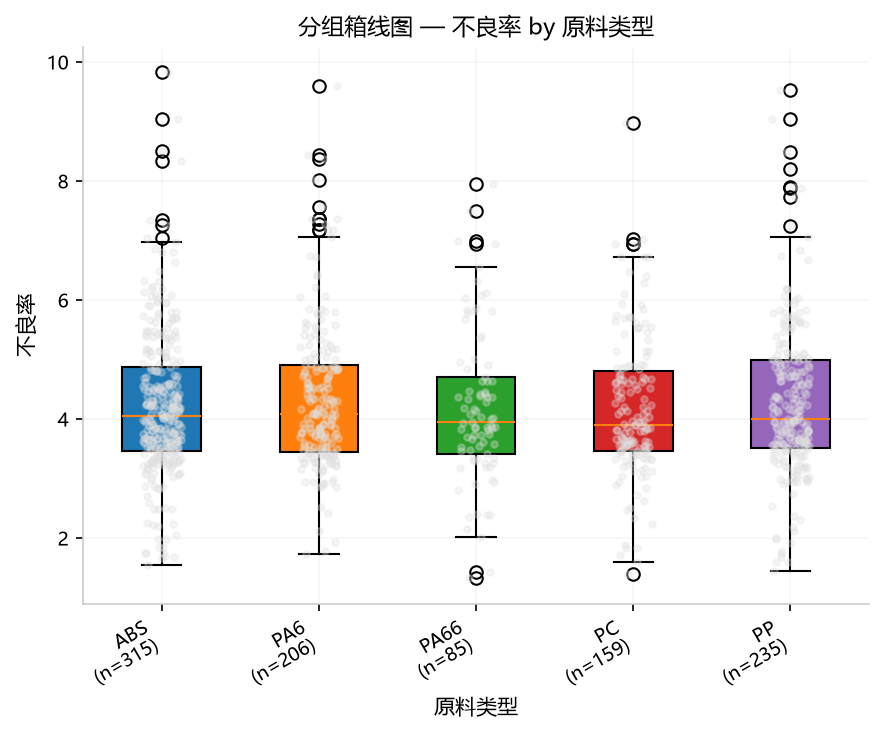
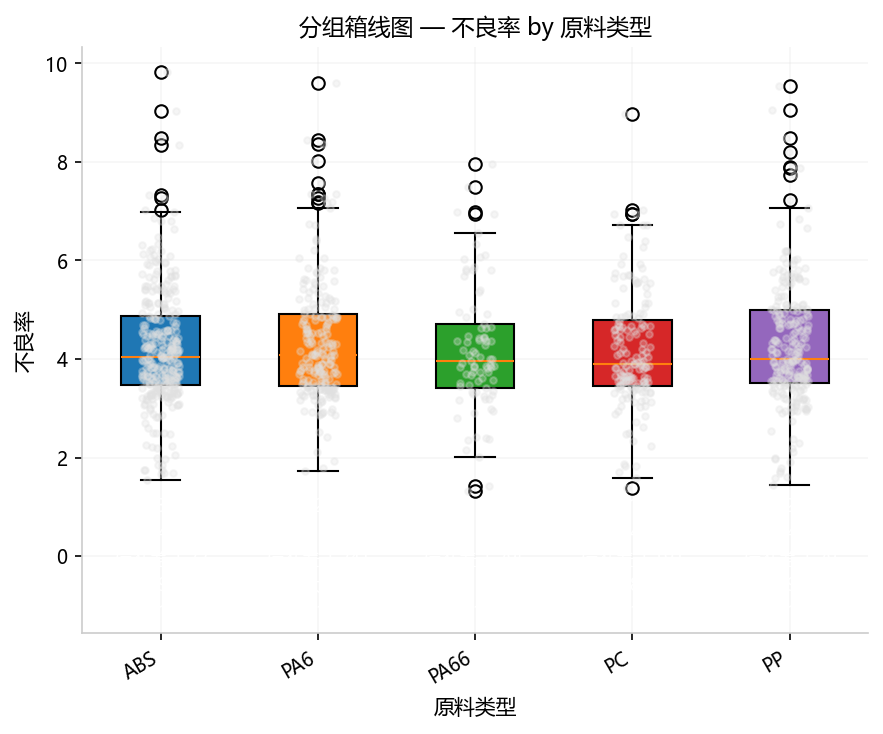
feat(engine): 箱线图每个箱体下方标注 n/均值/标准差/最大/最小值
- box_chart 新增 show_stats 参数（默认 true）：非分面单图模式下在每个箱体正下方
  标注该组 n/均值/标准差/最大值/最小值，与箱体共用同一套 x 位置（get_xaxis_transform）
- 图形整体尺寸不变：y 轴下界下压约数据跨度的 1/3，箱体被压缩到坐标区上部
- 开启时 X 轴刻度标签只留类别名（n 移入标注块，去重）；关闭则回到 类别\n(n=…) 旧样式；
  分面模式不加标注（面板面积不足）
- 标注数值走与 group_statistics 表同口径的格式化，规避展示层二次舍入：
  1e6 量级不被 :g 裁成 6 位有效数字，微尺度不归零（陷阱 9）
- 注册链同步：task_spec 默认参数 / app.js TASK_PARAMS+PARAM_META+PARAM_LABELS /
  example_box_chart.yaml / api-reference / 手册 07-spc（含示例图重生成）
- 测试：test_correctness 钉住标注与统计表逐项一致、x 位置对齐、开关与分面行为、
  远离数据的 USL 下标注仍落在数据下方；micro_scale 守卫钉住微尺度不归零

diff --git a/src/smartsuite/web/static/app.js b/src/smartsuite/web/static/app.js
@@ -213,7 +213,7 @@ const TASK_PARAMS = {
   doe_analysis:      { alpha: 0.05 },
   doe_design:        { method: 'full_factorial', factors: '', replicates: 1, randomize: 'true', seed: 42, center_points: 3, alpha: 'rotatable', n_runs: '' },
   variance_test:     { group_col: '', alpha: 0.05 },
-  box_chart:         { mode: 'facet', group_col: '', usl: '', lsl: '', ucl: '', lcl: '', cl: '', target: '' },
+  box_chart:         { mode: 'facet', show_stats: 'true', group_col: '', usl: '', lsl: '', ucl: '', lcl: '', cl: '', target: '' },
   scatter_plot:      { fit: 'none', show_ci: 'true', group_col: '' },
   correlation:       { method: 'pearson', control_vars: '' },
   contingency:       { alpha: 0.05 },
@@ -347,6 +347,10 @@ const PARAM_META = {
     type: 'select', label: '置信带',
     options: [['true', '显示 95% 置信带'], ['false', '隐藏']]
   },
+  show_stats: {
+    type: 'select', label: '箱体统计标注',
+    options: [['true', '显示 n/均值/标准差/最大/最小'], ['false', '隐藏 (刻度标签显示 n)']]
+  },
   'method@doe_design': {
     type: 'select', label: '设计方法',
     options: [
@@ -408,7 +412,7 @@ const PARAM_LABELS = {
   target: '目标值', ucl: '控制上限 (UCL)', lcl: '控制下限 (LCL)', cl: '控制中心 (CL)',
   target_power: '目标功效', l1_ratio: 'L1 比率 (ElasticNet)',
   current_n: '当前样本量 n (achieved 模式)', n_groups: '组数 k (anova)', p0: '基准比例 (proportion)', p1: '目标比例 (proportion)',
-  fit: '拟合类型', show_ci: '显示置信带', threshold: '分类阈值',
+  fit: '拟合类型', show_ci: '显示置信带', show_stats: '箱体统计标注', threshold: '分类阈值',
   'threshold@vif': 'VIF 阈值',
   factors: '因子定义', replicates: '重复次数', randomize: '随机化',
   seed: '随机种子', center_points: '中心点重复数', n_runs: '运行数',

diff --git a/tests/engine/test_correctness.py b/tests/engine/test_correctness.py
@@ -1402,6 +1402,136 @@ def test_box_chart_group_statistics():
     assert result.metadata["n_groups"] == 2
 
 
+def test_box_chart_stats_annotations_under_each_box():
+    """分组箱线图: 每个类别正下方应标注 n/均值/标准差/最大值/最小值，
+    且箱体被压缩在图内（整体尺寸不变）。
+
+    断言口径来自 review 2026-09-21 之后的箱线图标注需求：
+      ① 刻度标签只留类别名（n 统一进标注块，不重复）
+      ② 每组 5 行标注文本，数值与 group_statistics 表逐项一致
+      ③ 标注文本 x 位置与箱体 x 位置一致（共用一套 key）
+      ④ y 轴下界被压低到数据最小值以下（为标注腾出空间，箱体自动压缩）
+    """
+    from smartsuite.engine.exploratory import box_chart
+
+    np.random.seed(7)
+    n = 40
+    df = pd.DataFrame(
+        {
+            "group": ["A"] * n + ["B"] * n,
+            "val": np.concatenate([np.random.normal(100, 10, n), np.random.normal(115, 8, n)]),
+        }
+    )
+    result = box_chart(
+        AnalysisRequest(task="box_chart", data=df, target_col="val", feature_cols=["group"])
+    )
+    assert result.status == "ok", f"box_chart 失败: {result.messages}"
+    fig = result.figures[0]
+    ax = fig.axes[0]
+    stats = result.tables["group_statistics"]
+
+    # ① 刻度标签不再重复 n
+    labels = [t.get_text() for t in ax.get_xticklabels()]
+    assert labels == ["A", "B"], f"刻度标签应为纯类别名，实际: {labels}"
+
+    # ② 每组 5 行标注，数值与统计表一致
+    texts = [t for t in ax.texts if t.get_text()]
+    for i, (_, row) in enumerate(stats.iterrows()):
+        block = [t.get_text() for t in texts if abs(t.get_position()[0] - (i + 1)) < 1e-6]
+        assert len(block) == 5, f"第 {i + 1} 组应有 5 行标注，实际: {block}"
+        keys = ["n=", "均值 ", "标准差 ", "最大 ", "最小 "]
+        cols = ["样本量", "均值", "标准差", "最大值", "最小值"]
+        for line, key, col in zip(block, keys, cols, strict=True):
+            assert line.startswith(key), f"第 {i + 1} 组标注顺序/标签错: {block}"
+            assert float(line[len(key) :]) == pytest.approx(float(row[col])), (
+                f"第 {i + 1} 组「{col}」={row[col]} 与标注「{line}」不一致"
+            )
+
+    # ③ 标注 x 位置与箱体 x 位置一致（共用一套 key）
+    box_x = [np.mean(p.get_path().vertices[:, 0]) for p in ax.patches]
+    for i, bx in enumerate(box_x):
+        assert any(abs(t.get_position()[0] - bx) < 0.3 for t in texts), (
+            f"第 {i + 1} 个箱体 (x={bx}) 下方无对齐标注"
+        )
+
+    # ④ y 轴下界低于数据最小值（标注带在同一坐标区内）
+    assert ax.get_ylim()[0] < df["val"].min(), "y 轴下界未下压，标注会压住箱体"
+
+
+def test_box_chart_stats_band_clear_of_boxes_even_with_far_ref_line():
+    """即使 USL 远离数据（1000 vs 1~8），标注仍必须全部落在数据下方的预留带内。
+
+    回归点：标注带宽度若改按「数据跨度」而非「数据 ∪ 参考线」，则参考线远离数据时
+    标注会浮到箱体中间（review 过程中的一次错误尝试）。
+    """
+    from smartsuite.engine.exploratory import box_chart
+
+    np.random.seed(9)
+    df = pd.DataFrame({"group": ["A"] * 20 + ["B"] * 20, "val": np.random.normal(5, 1, 40)})
+    result = box_chart(
+        AnalysisRequest(
+            task="box_chart",
+            data=df,
+            target_col="val",
+            feature_cols=["group"],
+            params={"usl": 1000},
+        )
+    )
+    assert result.status == "ok", f"box_chart 失败: {result.messages}"
+    ax = result.figures[0].axes[0]
+    data_bottom_disp = ax.transData.transform((0.0, float(df["val"].min())))[1]
+    for t in ax.texts:
+        assert t.get_text(), "空文本不应出现"
+        y_disp = ax.transAxes.transform((0.0, t.get_position()[1]))[1]
+        assert y_disp < data_bottom_disp, f"标注「{t.get_text()}」压住箱体区"
+
+
+def test_box_chart_stats_annotation_toggle_and_facet():
+    """show_stats=False 关闭标注；分面模式（次分类分面）不添加标注。"""
+    from smartsuite.engine.exploratory import box_chart
+
+    np.random.seed(8)
+    n = 40
+    df = pd.DataFrame(
+        {
+            "group": ["A"] * n + ["B"] * n,
+            "sub": ["x"] * (n // 2) + ["y"] * (n // 2) + ["x"] * (n // 2) + ["y"] * (n // 2),
+            "val": np.random.normal(100, 10, 2 * n),
+        }
+    )
+    # 关闭标注
+    r_off = box_chart(
+        AnalysisRequest(
+            task="box_chart",
+            data=df[["group", "val"]],
+            target_col="val",
+            feature_cols=["group"],
+            params={"show_stats": "false"},
+        )
+    )
+    assert r_off.status == "ok", f"show_stats=false 失败: {r_off.messages}"
+    assert not [t for t in r_off.figures[0].axes[0].texts if t.get_text()], (
+        "show_stats=false 不应出现统计标注"
+    )
+    # 关闭后刻度标签恢复带 n 的旧样式
+    assert any("n=" in t.get_text() for t in r_off.figures[0].axes[0].get_xticklabels())
+
+    # 分面模式：多面板均不加标注
+    r_facet = box_chart(
+        AnalysisRequest(
+            task="box_chart",
+            data=df,
+            target_col="val",
+            feature_cols=["group", "sub"],
+            params={"mode": "facet"},
+        )
+    )
+    assert r_facet.status == "ok", f"分面模式失败: {r_facet.messages}"
+    assert r_facet.metadata["has_sub"] is True, "应走分面分支"
+    for ax in r_facet.figures[0].axes:
+        assert not [t for t in ax.texts if t.get_text()], "分面模式不应添加统计标注"
+
+
 # ── 散点图正确性 ──
 
 

diff --git a/src/smartsuite/engine/exploratory.py b/src/smartsuite/engine/exploratory.py
@@ -269,6 +269,76 @@ def bootstrap_ci(req: AnalysisRequest) -> AnalysisResult:
     )
 
 
+def _annotate_group_stats(
+    ax,
+    groups: list,
+    group_data: list,
+    stat_rows: list[dict[str, Any]],
+    ref_lines: list[tuple[float, str, str, str]],
+) -> None:
+    """在每个箱体正下方标注 n/均值/标准差/最大值/最小值。
+
+    不改变图形尺寸：把 y 轴下界下压约数据跨度的 1/3，箱体被压缩到坐标区上部，
+    下沿留出的空白带承载标注；标注用 get_xaxis_transform（x 数据坐标 + y 轴比例
+    坐标）绘制，因此与箱体共用同一套 x 位置（同一套类别 key），无需新增坐标轴。
+    """
+    d_lo = min(float(np.min(d)) for d in group_data if len(d))
+    d_hi = max(float(np.max(d)) for d in group_data if len(d))
+    # 跨度取「数据 ∪ 参考线」——保证标注带始终占坐标区下沿约 1/4，
+    # 文字与箱体不可能重叠（即使 USL 远离数据）；箱体被压缩是必然代价
+    lo = min([d_lo] + [val for val, _c, _s, _lab in ref_lines])
+    hi = max([d_hi] + [val for val, _c, _s, _lab in ref_lines])
+    span = hi - lo
+    if not np.isfinite(span) or span <= 0:  # 常量数据：给一个可用的相对跨度
+        span = max(abs(hi), 1.0)
+    ax.set_ylim(lo - 0.34 * span, hi + 0.06 * span)
+
+    n_groups = len(groups)
+    fontsize = 8.5 if n_groups <= 10 else 7.5 if n_groups <= 20 else 6.5
+
+    def _fmt_ann(v) -> str:
+        """标注数值格式：与 group_statistics 表逐位一致。
+
+        round_for_display 对常规量级取 3 位小数、对微尺度改按有效数字；此处反过来
+        判别：能整除到 3 位小数的（常规量级）用定点输出（避开 :g 对大数值的 6 位
+        有效数字二次舍入），否则（微尺度）用 :g 保持紧凑可读。
+        """
+        try:
+            f = float(v)
+        except (TypeError, ValueError):
+            return str(v)
+        if not np.isfinite(f):
+            return str(f)
+        if np.round(f, 3) == f:
+            return f"{f:.3f}".rstrip("0").rstrip(".") or "0"
+        return f"{f:g}"
+
+    # 图宽随组数增长（每组固定约 1.2in），注解无需旋转即可横向放下；
+    # 旋转会让 5 行文字斜插进相邻行，反而重叠
+    y_positions = (0.215, 0.170, 0.125, 0.080, 0.035)
+    transform = ax.get_xaxis_transform()
+    for idx, row in enumerate(stat_rows, 1):
+        lines = (
+            f"n={row['样本量']}",
+            f"均值 {_fmt_ann(row['均值'])}",
+            f"标准差 {_fmt_ann(row['标准差'])}",
+            f"最大 {_fmt_ann(row['最大值'])}",
+            f"最小 {_fmt_ann(row['最小值'])}",
+        )
+        for y, text in zip(y_positions, lines, strict=True):
+            ax.text(
+                idx,
+                y,
+                text,
+                transform=transform,
+                ha="center",
+                va="center",
+                fontsize=fontsize,
+                color=PALETTE["misc"]["edge"],
+                clip_on=False,
+            )
+
+
 def box_chart(req: AnalysisRequest) -> AnalysisResult:
     """分组箱线图 — 按类别因子分组展示分布，支持嵌套和分面两种次分类模式。
 
@@ -364,6 +434,12 @@ def box_chart(req: AnalysisRequest) -> AnalysisResult:
                 messages=[f"目标值 Target 必须为有限数值，当前: {target_val!r}"],
             )
         _ref_lines.append((target_f, PALETTE["direction"]["zero"], ":", "Target"))
+
+    # show_stats：在非分面单图模式下，把 n/均值/标准差/最大值/最小值标注到每个箱体正下方
+    # （标注带占用坐标区下沿，箱体自动压缩，图形整体尺寸不变；分面模式不标注）
+    show_stats = req.params.get("show_stats", True)
+    if isinstance(show_stats, str):
+        show_stats = show_stats.lower() not in ("false", "0", "no", "")
 
     sub = req.data[_cols_needed].dropna()
     if len(sub) < 5:
@@ -484,9 +560,14 @@ def box_chart(req: AnalysisRequest) -> AnalysisResult:
     else:
         fig = Figure(figsize=(max(len(groups) * 1.2, 6), 5))
         ax = fig.add_subplot(111)
+        # show_stats 开启时 n 移入标注块，刻度标签只留类别名（避免重复展示）
+        tick_labels = [
+            str(g) if show_stats else f"{g}\n(n={len(d)})"
+            for g, d in zip(groups, group_data, strict=False)
+        ]
         bp = ax.boxplot(
             group_data,
-            tick_labels=[f"{g}\n(n={len(d)})" for g, d in zip(groups, group_data, strict=False)],
+            tick_labels=tick_labels,
             patch_artist=True,
             widths=0.5,
         )
@@ -512,6 +593,8 @@ def box_chart(req: AnalysisRequest) -> AnalysisResult:
         ax.set_title(title, fontsize=11)
         _adjust_xlabels(ax, len(groups), fig)
         _draw_ref_lines(ax)
+        if show_stats:
+            _annotate_group_stats(ax, groups, group_data, stat_rows, _ref_lines)
     fig.tight_layout()
 
     n_total = sum(s["样本量"] for s in stat_rows)  # 按实际显示的分组汇总

diff --git a/tests/guards/test_micro_scale_guards.py b/tests/guards/test_micro_scale_guards.py
@@ -690,6 +690,33 @@ def test_box_chart_micro_scale_group_stats_scale_with_magnitude():
         assert micro_v == pytest.approx(macro_v * 1e-9, rel=0.02), f"{col} 未随量纲同比缩放"
 
 
+def test_box_chart_annotations_match_table_at_micro_scale():
+    """box_chart 箱体下方标注必须与 group_statistics 表逐位一致（微尺度不归零）。
+
+    对应陷阱 9「展示层二次舍入」：标注若用固定 `:g`，对 1e6 量级只留 6 位有效数字，
+    微尺度靠科学计数；修复后走与表格同口径的展示格式化。
+    """
+    rng = np.random.default_rng(11)
+    n = 40
+    df = pd.DataFrame({"y": rng.normal(5.0, 1.0, n) * 1e-9, "g": ["A", "B"] * (n // 2)})
+    r = box_chart(
+        AnalysisRequest(task="box_chart", data=df, target_col="y", feature_cols=["g"], params={})
+    )
+    assert r.status == "ok", r.messages
+    texts = [t.get_text() for t in r.figures[0].axes[0].texts if t.get_text()]
+    stats = r.tables["group_statistics"]
+    for i, (_, row) in enumerate(stats.iterrows()):
+        lines = texts[i * 5 : i * 5 + 5]  # 每组 5 行，顺序固定：n/均值/标准差/最大/最小
+        assert len(lines) == 5, f"第 {i + 1} 组标注行数异常: {lines}"
+        for line, col in zip(lines[1:], ("均值", "标准差", "最大值", "最小值"), strict=True):
+            shown = float(line.split(" ", 1)[1])
+            expected = float(row[col])
+            assert shown != 0.0, f"第 {i + 1} 组「{col}」标注在微尺度下归零: {lines}"
+            assert shown == pytest.approx(expected, rel=1e-6), (
+                f"第 {i + 1} 组「{col}」标注 {shown} 与表格 {expected} 不一致"
+            )
+
+
 def test_grid_search_micro_scale_optimal_params_scale_with_magnitude():
     rng = np.random.default_rng(3)
     n = 80

diff --git a/src/smartsuite/services/task_spec.py b/src/smartsuite/services/task_spec.py
@@ -356,6 +356,7 @@ TASK_SPECS: tuple[TaskSpec, ...] = (
         group="过程监控",
         default_params={
             "mode": "facet",
+            "show_stats": True,
             "group_col": None,
             "usl": None,
             "lsl": None,

diff --git a/docs/user-manual/07-spc.md b/docs/user-manual/07-spc.md
@@ -304,7 +304,7 @@ X-bar 图（上）+ R 图（下），含 ±1σ/±2σ/±3σ 区域着色 + Wester
 |------|------|------|
 | **Y** | `不良率` | 分析目标：按原料类型分组展示不良率的分布差异 |
 | **X(类)** | `原料类型` | ⚠ 标记为**类别**：主分类变量（ABS/PP/PA6/PA66/PC 五组） |
-| **参数** | — | 自动附 ANOVA/Kruskal-Wallis 检验结果 |
+| **参数** | `show_stats=true`(默认) | 每个箱体正下方标注 n/均值/标准差/最大值/最小值（箱体压缩、图形尺寸不变）；自动附 ANOVA/Kruskal-Wallis 检验结果 |
 
 > ⚠ **协同要求**：必须标记 **1 个 Y（数值） + 至少 1 个类别列**。
 
@@ -312,7 +312,7 @@ X-bar 图（上）+ R 图（下），含 ±1σ/±2σ/±3σ 区域着色 + Wester
 
 ![分组箱线图(简单)](images/box_chart_1.png)
 
-*分组箱线图 — 按原料类型(5组)的不良率分布，散点叠加展示个体差异。各组箱体高度相近，中位数接近。*
+*分组箱线图 — 按原料类型(5组)的不良率分布，散点叠加展示个体差异。各组箱体高度相近，中位数接近。每个箱体正下方独立标注该组的 n/均值/标准差/最大值/最小值。*
 
 #### 数值结果（Web UI ≡ Python）
 
@@ -337,7 +337,7 @@ X-bar 图（上）+ R 图（下），含 ±1σ/±2σ/±3σ 区域着色 + Wester
 | **Y** | `不良率` | 分析目标：按原料类型+车间双维度展示不良率分布 |
 | **X(类)** | `原料类型` | ⚠ 标记为**类别**：主分类变量（箱线图 X 轴） |
 | **X(类)** | `车间` | ⚠ 标记为**类别**：次分类变量（≤8 水平时自动生成分面） |
-| **参数** | — | 次分类生成 3 张分面箱线图（一/二/三车间各一张） |
+| **参数** | `show_stats=true`(默认) | 次分类生成 3 张分面箱线图（一/二/三车间各一张）；分面模式不加统计标注 |
 
 > ⚠ **协同要求**：标记 **1 个 Y（数值） + 至少 2 个类别列**。第一个类别列为主分类（X 轴），其余为次分类（分面）。
 
@@ -350,7 +350,7 @@ X-bar 图（上）+ R 图（下），含 ±1σ/±2σ/±3σ 区域着色 + Wester
 #### 补充备注
 
 - **Python API**：`orchestrate(AnalysisRequest(task='box_chart', ...))`
-### 7.11 非参数控制图 (`spc_nonparametric`) 🆕
+- **统计标注**：`show_stats`（默认 `true`）在每个箱体正下方标注该组 `n` / 均值 / 标准差 / 最大值 / 最小值，数值口径与 `group_statistics` 表逐位一致；开启时 `n` 不再重复出现在 X 轴刻度标签上（关闭则回到 `类别\n(n=…)` 旧样式）。标注占用坐标区下沿约 1/4，箱体自动压缩，**图形整体尺寸不变**。次分类分面模式（每张面板面积较小）不加标注。### 7.11 非参数控制图 (`spc_nonparametric`) 🆕
 
 **功能**: 基于最佳拟合分布的 CDF 逆推控制限，不假设正态分布。自动拟合 Normal/Lognormal/Weibull 三种分布，选 KS 检验最优者，用 PPF(CDF 逆函数)精确计算控制限。
 

diff --git a/docs/specification/api-reference.md b/docs/specification/api-reference.md
@@ -319,7 +319,7 @@ class AnalysisResult:
 ### box_chart
 - **Task Key**: `box_chart`
 - **描述**: 分组箱线图 — 按类别因子展示数值分布，支持主分类 + 次分类分面，自动附 ANOVA/Kruskal-Wallis 或 t 检验/MWU 统计检验
-- **params**: `mode` ("facet" 分面 | "nested" 嵌套组合标签), `group_col` (分组列), `usl`/`lsl` (规格上/下限, 红色实线), `ucl`/`lcl`/`cl` (控制上/下限/中心线, 黄色虚线), `target` (目标值, 灰色点线)
+- **params**: `mode` ("facet" 分面 | "nested" 嵌套组合标签), `show_stats` (默认 true：在每个箱体正下方标注 n/均值/标准差/最大值/最小值，箱体随之压缩、图形整体尺寸不变；false 时改把 n 标在 X 轴刻度标签上。分面模式不标注), `group_col` (分组列), `usl`/`lsl` (规格上/下限, 红色实线), `ucl`/`lcl`/`cl` (控制上/下限/中心线, 黄色虚线), `target` (目标值, 灰色点线)
 - **feature_cols**: `[主分类列]` 或 `[主分类列, 次分类列]`
 - **返回**: `group_statistics` (含各分组均值/中位数/标准差/IQR)；统计检验结果嵌入 summary
 - **图**: 分组箱线图 + 散点叠加；次分类 ≤ 8 水平时分面展示
